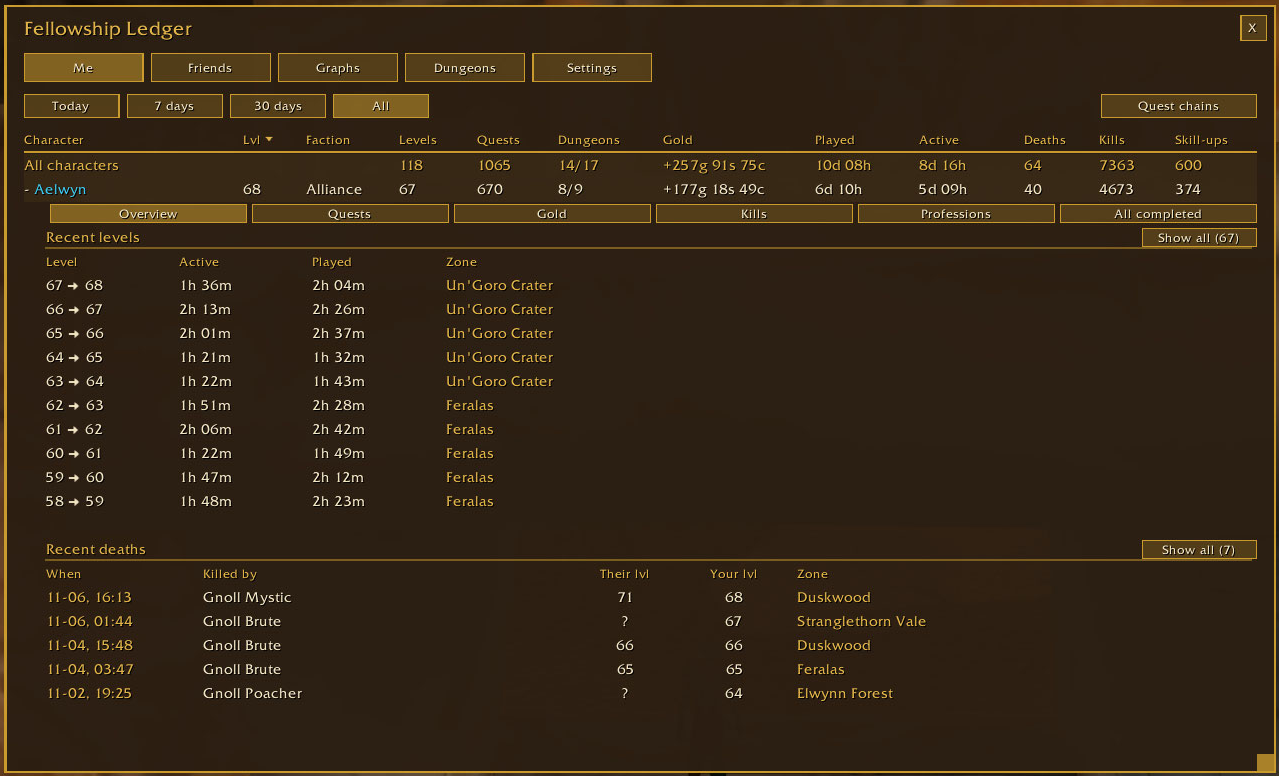
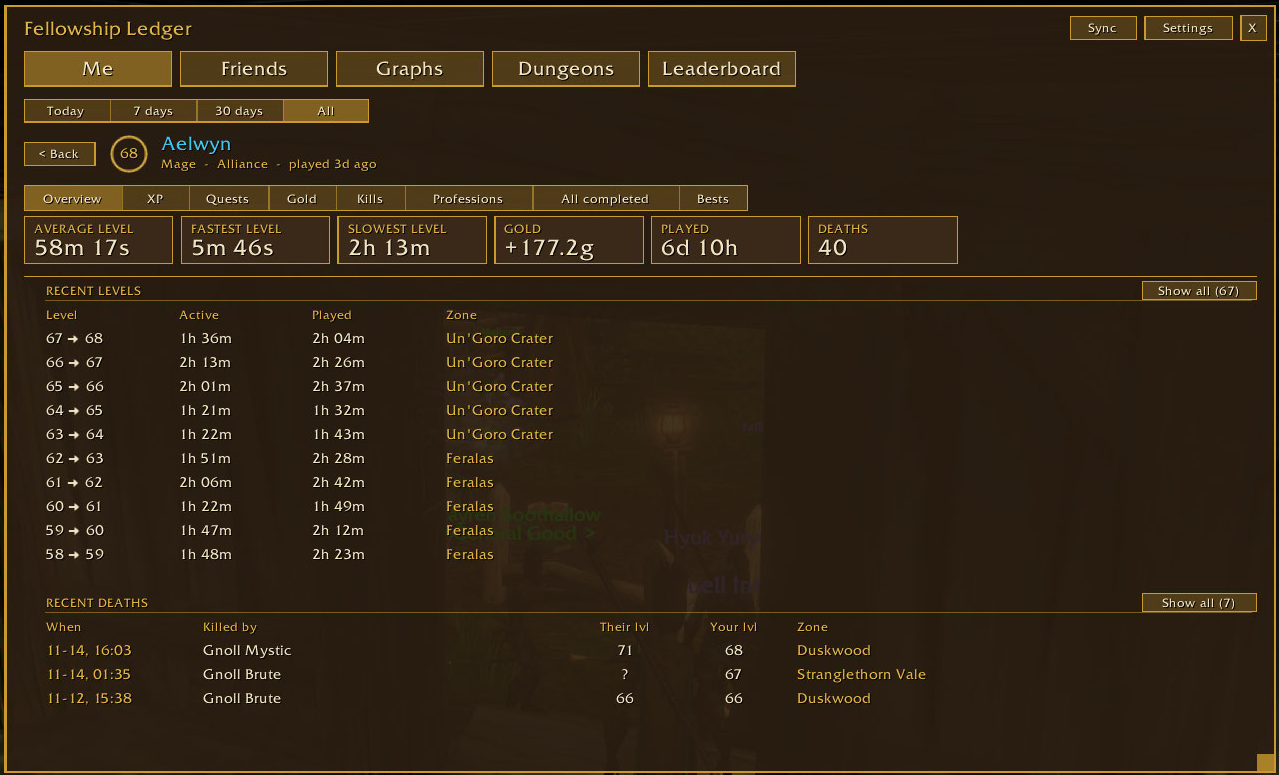
Fixes from the 1.14.0 screenshots: solid pop-ups, no cut-off text, over-level note, cleaner /fl shots (D-142)

diff --git a/docs/DECISIONS.md b/docs/DECISIONS.md
@@ -540,3 +540,11 @@ Austin, 2026-11-16: "collapse the friends list down to show a single line per fr
 - A Battle.net friend's header line starts with "- " (open) or "+ " (folded); a click folds or opens it. Folded, only the header shows (name, online, character count, last update). Character-only friends are already one line each and do not fold.
 - "Collapse all" sits right of "This week" (hidden on a friend's page and when there are no Battle.net friends); it reads "Open all" once every one is folded, as on the Leaderboard.
 - Folds are saved in settings.friendsCollapsed by friend id, so they stay after a /reload. Nothing is folded by default.
+
+## D-142 Fixes from the 1.14.0 screenshots (1.14.1)
+Austin, 2026-11-16, after looking over the new /fl shots pictures.
+- Pop-up windows that sit over the ledger (session goals, invite, the stale-data prompt, welcome) are solid whatever the Background opacity: the ledger's text showed through the goals window's title.
+- /fl shots takes every picture with a solid background and nothing folded (Friends or Leaderboard), putting the player's settings back afterwards, and starts each picture at the top of the Friends list (the invites picture scrolls down).
+- Shorter text where it was cut off: a run's boss count in Runs has more room; By dungeon says "2nd fastest" / "Fastest" instead of "... on the Leaderboard"; "This week (last 7 days)" and "Last week (11-04 to 11-11)" fit the This week panel.
+- A dungeon's pane says when your best clear is not among the fastest clears because the group was over level (the Leaderboard's at-level rule, D-115), instead of leaving a faster run of yours unexplained.
+

diff --git a/CHANGELOG.md b/CHANGELOG.md
@@ -1,5 +1,13 @@
 # Changelog
 
+## Unreleased
+
+### Fixed
+- The session goals window (and the invite window) is solid, so the ledger behind it no longer shows through, whatever the background opacity.
+- Text that was cut off: a run's boss count in Runs, "2nd fastest" in By dungeon, and the This week panel's titles.
+- A dungeon's page says why your best clear is not among the fastest clears when someone in the group was over level.
+- /fl shots: pictures are solid and show every friend and dungeon open, and the Friends list starts at the top.
+
 ## 1.14.0 - 2026-11-16
 
 ### Changed
